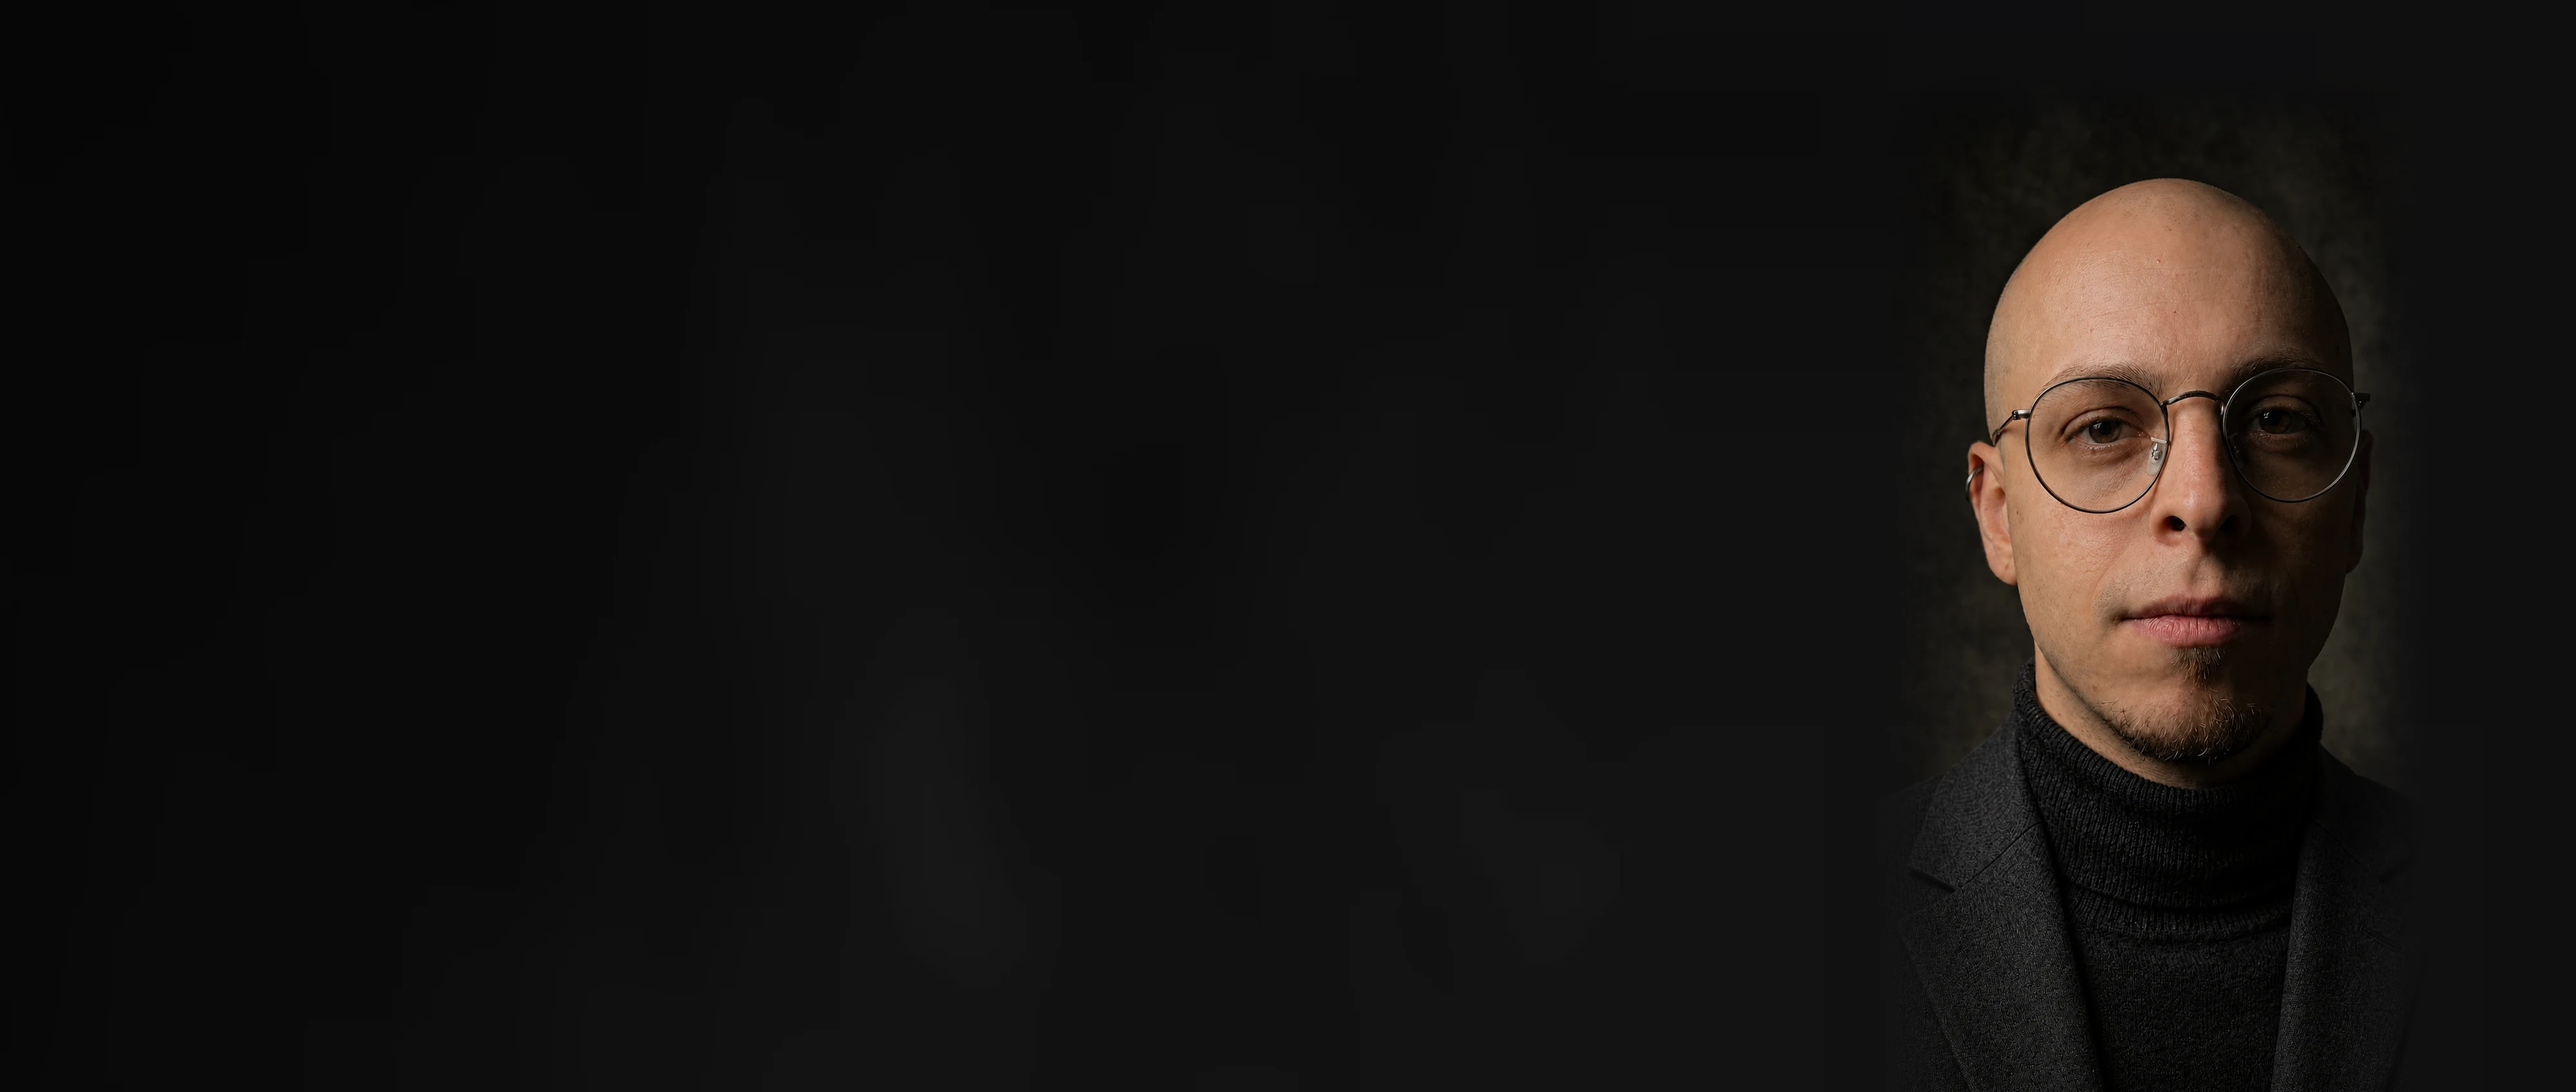
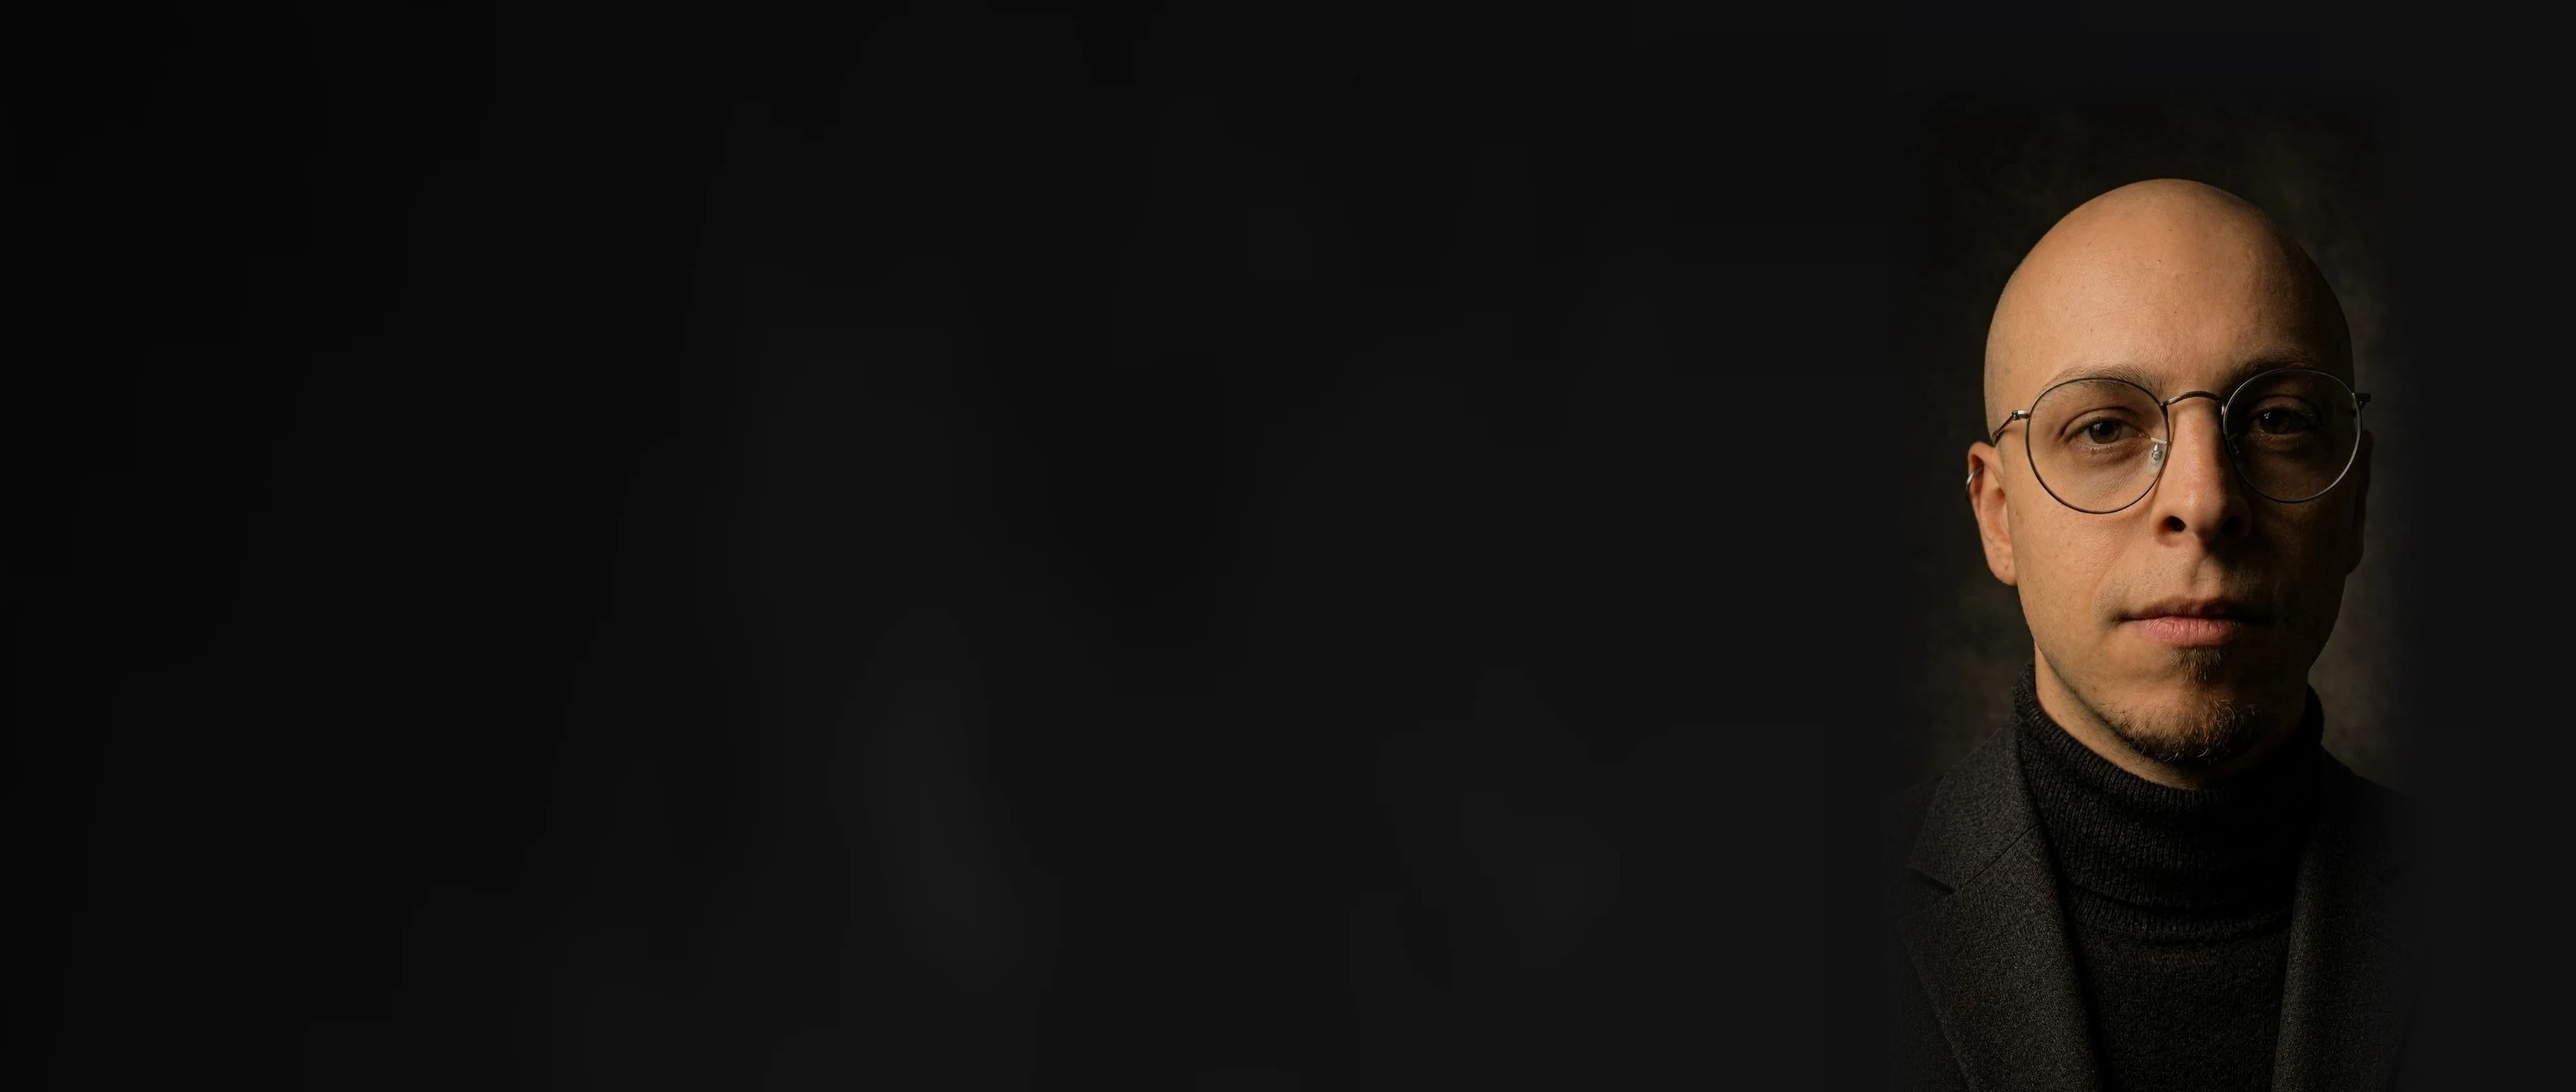
Foto in home: versione ritoccata del ritratto con giacca (#451)
* Firma scritta a mano su nome e saluto in home

Destiny Signature (sottoinsieme latino, woff2) solo per il nome nella
barra in alto e per il saluto in home; gli altri titoli restano in
Bodoni Moda. Dimensioni e interlinea adattate perché le lettere lunghe
non tocchino il testo sotto.

Claude-Session: https://claude.ai/code/session_0117AcoAoRNxCeiVuVm8eKGz

* Saluto in home senza punto finale

Claude-Session: https://claude.ai/code/session_0117AcoAoRNxCeiVuVm8eKGz

* Home: saluto in arancione, link di testo e striscia senza blocchi laterali

- "Ciao, sono Nicolò Forcolin" nel colore d'accento.
- I due pulsanti diventano link di testo arancioni sottolineati, alti
  almeno 44px; rimosse tutte le regole .hero-btn che li servivano.
- Tolti i due rettangoli arancioni ai lati della striscia dei progetti,
  con le regole CSS e la variabile --rail-width.

Claude-Session: https://claude.ai/code/session_0117AcoAoRNxCeiVuVm8eKGz

* Skyline di Padova in fondo alle pagine interne

Disegno della città sopra la riga del piè di pagina ("Padova, Italia")
su tutte le pagine tranne la home. Firma originale ritagliata via;
il fondo quasi nero del disegno si fonde con quello del sito tramite
mix-blend-mode: lighten.

Claude-Session: https://claude.ai/code/session_0117AcoAoRNxCeiVuVm8eKGz

* Anteprima dei link con lo skyline di Padova

og:image e twitter:image di tutte le pagine puntano a og-padova.jpg
(1200x630, disegno di Padova con la firma). og-image.png resta come
[…]

diff --git a/index.html b/index.html
@@ -96,9 +96,9 @@
     <div class="hero-photo-frame">
       <a class="scroll-btn" href="#hero-name"><span data-i18n="scroll_btn">Entra nel sito</span><svg viewBox="0 0 16 16" width="16" height="16" fill="none" stroke="currentColor" stroke-width="1.75" stroke-linecap="round" stroke-linejoin="round" aria-hidden="true" focusable="false"><path d="M8 2.5v11M3.5 9 8 13.5 12.5 9"/></svg></a>
       <picture>
-        <source media="(max-width:700px)" srcset="photo-mobile.webp?v=23" type="image/webp">
-        <source srcset="photo.webp?v=23" type="image/webp">
-        <img class="hero-portrait" id="avatarPhoto" src="photo.webp?v=23" alt="Nicolò Forcolin" width="4000" height="1696" fetchpriority="high">
+        <source media="(max-width:700px)" srcset="photo-mobile.webp?v=24" type="image/webp">
+        <source srcset="photo.webp?v=24" type="image/webp">
+        <img class="hero-portrait" id="avatarPhoto" src="photo.webp?v=24" alt="Nicolò Forcolin" width="4000" height="1696" fetchpriority="high">
       </picture>
     </div>
   </div>

diff --git a/tests/site-regression.test.js b/tests/site-regression.test.js
@@ -69,8 +69,8 @@ assert(home.includes('id="heroIntro"'), 'Hero intro paragraph missing');
 for (const language of ['it', 'en']) assert(dictionaries[language].includes('hero_intro:'), language + ': hero intro missing');
 assert(home.includes('data-i18n="skip_to_content"'), 'Skip link must be translated');
 assert(home.includes('class="hero-filmstrip"'), 'Hero filmstrip must link to the real pages');
-assert(home.includes('srcset="photo.webp?v=23"'), 'New portrait must be displayed');
-assert(home.includes('srcset="photo-mobile.webp?v=23"'), 'Mobile portrait crop must be displayed');
+assert(home.includes('srcset="photo.webp?v=24"'), 'New portrait must be displayed');
+assert(home.includes('srcset="photo-mobile.webp?v=24"'), 'Mobile portrait crop must be displayed');
 assert(!home.includes('class="info-dialog"'), 'Project dialogs were replaced by pages');
 
 assert(read('rag-aziendale.html').includes('data-i18n="c1_summary"'), 'RAG summary must remain');
